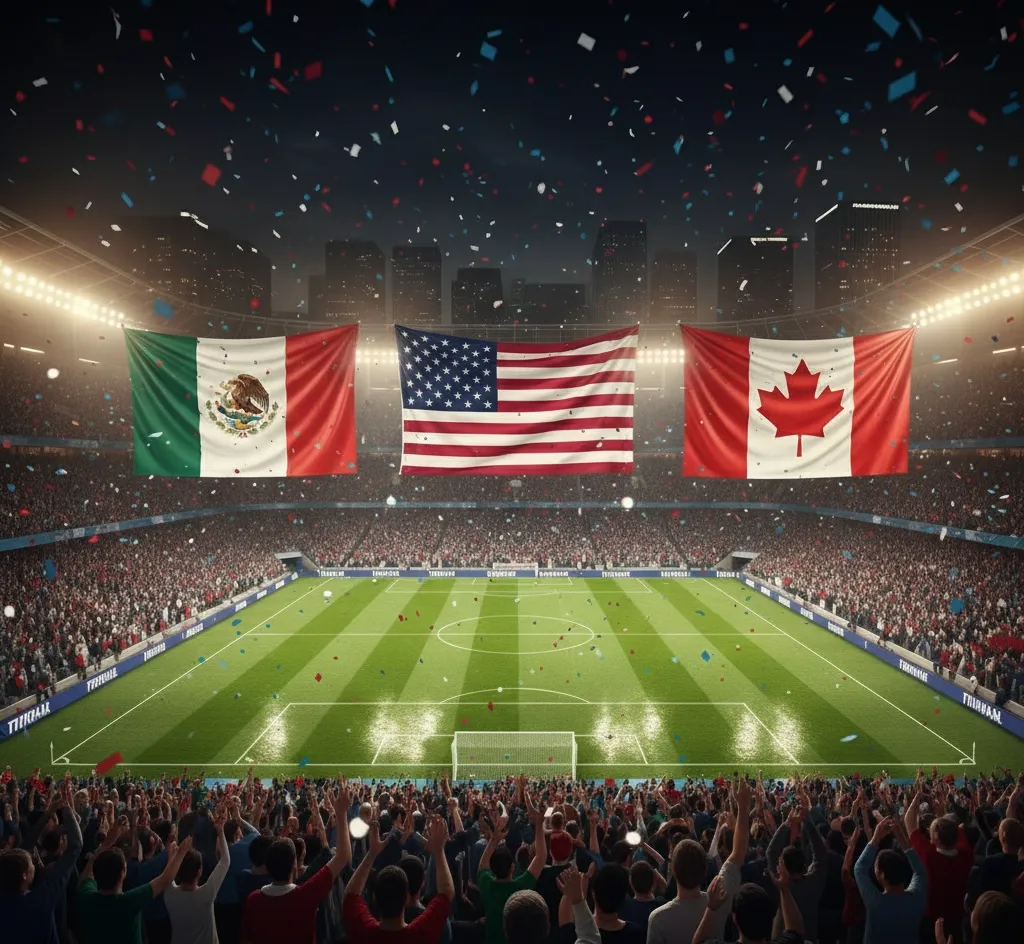
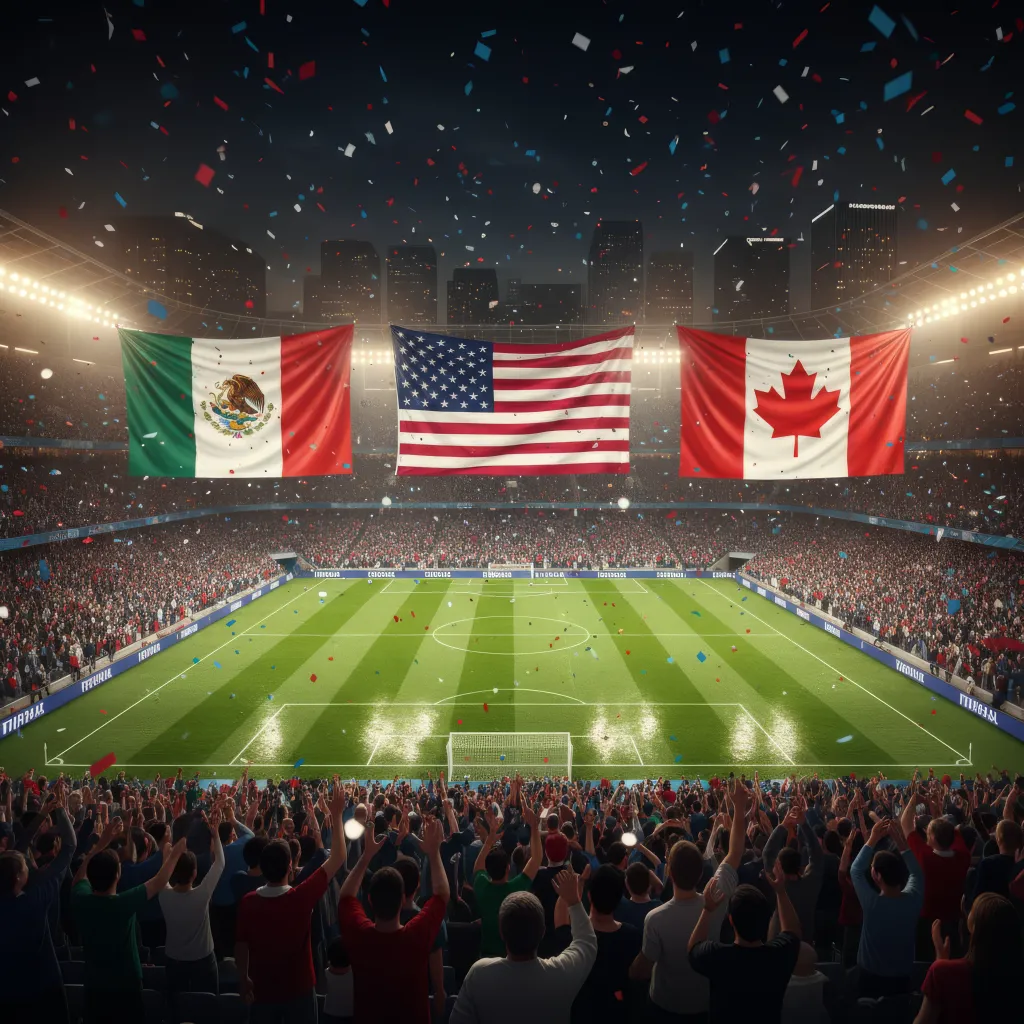
feat(home): replace homepage hero image; update SEO metadata and structured data

diff --git a/index.html b/index.html
@@ -7,9 +7,9 @@
     <meta name="viewport" content="width=device-width, initial-scale=1.0" />
     
     <!-- Primary Meta Tags -->
-    <title>StadiumPort - Your Premier Gateway to the 2026 North American Football Journey</title>
-    <meta name="title" content="StadiumPort - Your Premier Gateway to the 2026 North American Football Journey" />
-    <meta name="description" content="The definitive authority for 2026 tournament travel intelligence. Compare flights, hotels, and experiences across all 16 host cities. From budget to luxury travel guides." />
+    <title>World Cup 2026 – Cinematic Night Stadium Hero | StadiumPort</title>
+    <meta name="title" content="World Cup 2026 – Cinematic Night Stadium Hero | StadiumPort" />
+    <meta name="description" content="Experience the breathtaking atmosphere of the World Cup 2026 with three massive USA, Mexico, and Canada flags proudly displayed in the middle of a night-lit stadium." />
     <meta name="keywords" content="2026 World Cup, travel guides, host cities, stadium tours, football travel, North America, FIFA World Cup 2026, soccer travel, tournament travel, World Cup hotels, World Cup flights" />
     <meta name="author" content="StadiumPort" />
     <meta name="robots" content="index, follow" />
@@ -18,18 +18,18 @@
     <!-- Open Graph / Facebook -->
     <meta property="og:type" content="website" />
     <meta property="og:url" content="https://example.com/" />
-    <meta property="og:title" content="StadiumPort - Premier 2026 World Cup Travel Platform" />
-    <meta property="og:description" content="The definitive authority for 2026 tournament travel intelligence across all 16 host cities." />
-    <meta property="og:image" content="/images/metlife-stadium-east-rutherford-world-cup-2026.webp" />
+    <meta property="og:title" content="World Cup 2026 – Cinematic Night Stadium Hero | StadiumPort" />
+    <meta property="og:description" content="Experience the breathtaking atmosphere of the World Cup 2026 with three massive USA, Mexico, and Canada flags proudly displayed in the middle of a night-lit stadium." />
+    <meta property="og:image" content="/images/world-cup-2026-night-stadium-usa-mexico-canada-flags-middle.webp" />
     <meta property="og:site_name" content="StadiumPort" />
     <meta property="og:locale" content="en_US" />
     
     <!-- Twitter -->
     <meta property="twitter:card" content="summary_large_image" />
     <meta property="twitter:url" content="https://example.com/" />
-    <meta property="twitter:title" content="StadiumPort - Premier 2026 World Cup Travel Platform" />
-    <meta property="twitter:description" content="The definitive authority for 2026 tournament travel intelligence across all 16 host cities." />
-    <meta property="twitter:image" content="/images/metlife-stadium-east-rutherford-world-cup-2026.webp" />
+    <meta property="twitter:title" content="World Cup 2026 – Cinematic Night Stadium Hero | StadiumPort" />
+    <meta property="twitter:description" content="Experience the breathtaking atmosphere of the World Cup 2026 with three massive USA, Mexico, and Canada flags proudly displayed in the middle of a night-lit stadium." />
+    <meta property="twitter:image" content="/images/world-cup-2026-night-stadium-usa-mexico-canada-flags-middle.webp" />
     
     <!-- Additional SEO Meta Tags -->
     <meta name="theme-color" content="#10b981" />

diff --git a/src/utils/lqipManifest.ts b/src/utils/lqipManifest.ts
@@ -32,5 +32,5 @@ export const lqipManifest: Record<string, string> = {
[5 lines of base64/hex data omitted]
 };

diff --git a/src/components/seo/SchemaOrg.tsx b/src/components/seo/SchemaOrg.tsx
@@ -25,7 +25,7 @@ export const generateWebsiteSchema = () => ({
   "@context": "https://schema.org",
   "@type": "WebSite",
   "name": "StadiumPort",
-  "description": "The definitive authority for 2026 tournament travel intelligence across all 16 host cities.",
+  "description": "Experience the breathtaking atmosphere of the World Cup 2026 with three massive USA, Mexico, and Canada flags proudly displayed in the middle of a night-lit stadium.",
   "url": import.meta.env.VITE_SITE_URL || "https://example.com",
   "potentialAction": {
     "@type": "SearchAction",
@@ -46,7 +46,7 @@ export const generateOrganizationSchema = () => ({
   "@context": "https://schema.org",
   "@type": "Organization",
   "name": "StadiumPort",
-  "description": "Premier 2026 World Cup travel platform providing comprehensive guides and deals for all 16 host cities.",
+  "description": "Experience the breathtaking atmosphere of the World Cup 2026 with three massive USA, Mexico, and Canada flags proudly displayed in the middle of a night-lit stadium.",
   "url": import.meta.env.VITE_SITE_URL || "https://example.com",
   "logo": `${import.meta.env.VITE_SITE_URL || "https://example.com"}/logo.png`,
   "sameAs": [
